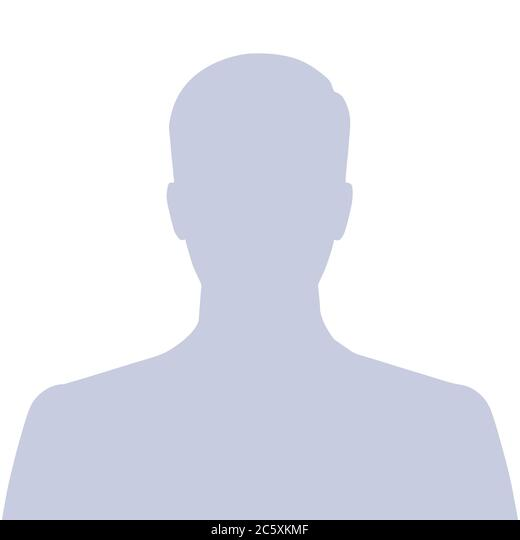
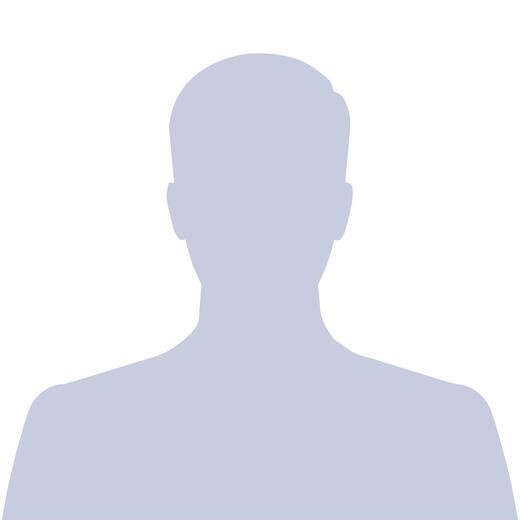
Fix Layout in DA Dashboard and Farmer Portal

diff --git a/src/assets/sass/variables.scss b/src/assets/sass/variables.scss
@@ -4,12 +4,12 @@
 
 $body-font-family: 'Poppins';
 
-$typoOptions: display-4, display-3, display-2, display-1, headline, title, subtitle-1, subtitle-2, body-1, body-2, caption, overline;
+$typoOptions: display-4, display-3, display-2, display-1, headline, title, subtitle-1, subtitle-2, body-1, body-2, caption, overline, text-h1, text-h2, text-h3, text-h4, text-h5, text-h6, text-subtitle-1, text-subtitle-2, text-body-1, text-body-2, text-button, text-caption, text-overline;
 #app {
     font-family: $body-font-family, sans-serif !important;
     @each $typoOption in $typoOptions {
         .#{$typoOption} {
-        font-family: $body-font-family, sans-serif !important;
+            font-family: $body-font-family, sans-serif !important;
         }
     }
 }

diff --git a/src/views/admin/layouts/AdminLayout.vue b/src/views/admin/layouts/AdminLayout.vue
@@ -2,13 +2,15 @@
     <v-layout class="h-100" style="background-color: #F5F5F5">
         <AdminSidebar
             v-model="drawerVisible"
+            style="position: fixed;"
         />
-        <AdminAppbar @closeSidebar="handleCloseSidebar"/>
+        <AdminAppbar @closeSidebar="handleCloseSidebar" style="position: fixed;"/>
         
         <v-main>
            <v-container>
-            <router-view></router-view>
+                <router-view></router-view>
            </v-container>
+           <v-footer>{{ new Date().getFullYear() }} — <strong>Vuetify</strong></v-footer>
         </v-main>
     </v-layout>
 </template>

diff --git a/src/views/farmer/contents/FarmerProfile.vue b/src/views/farmer/contents/FarmerProfile.vue
@@ -1,7 +1,7 @@
 <template>
     <v-card>
         <v-sheet class="d-flex flex-column align-center justify-center pt-10">
-            <v-avatar :image="userProfile" size="200"></v-avatar>
+            <v-avatar :image="userProfile || require('@/assets/images/default-picturejpg.jpg')" size="200"></v-avatar>
             <v-list class="d-flex flex-column align-center">
                 <v-list-item><h2>{{ username }}</h2></v-list-item>
                 <v-list-item>

diff --git a/src/views/farmer/layouts/FarmerLayout.vue b/src/views/farmer/layouts/FarmerLayout.vue
@@ -1,9 +1,9 @@
 <template>
     <v-layout class="h-100" style="background-color: #F6F6F6;">
-        <FarmerAppbar/>
+        <FarmerAppbar style="position: fixed;"/>
         <FarmerBottomNav/>
         <v-main>
-            <v-container>
+            <v-container class="mb-10">
                 <router-view></router-view>
             </v-container>
         </v-main>
